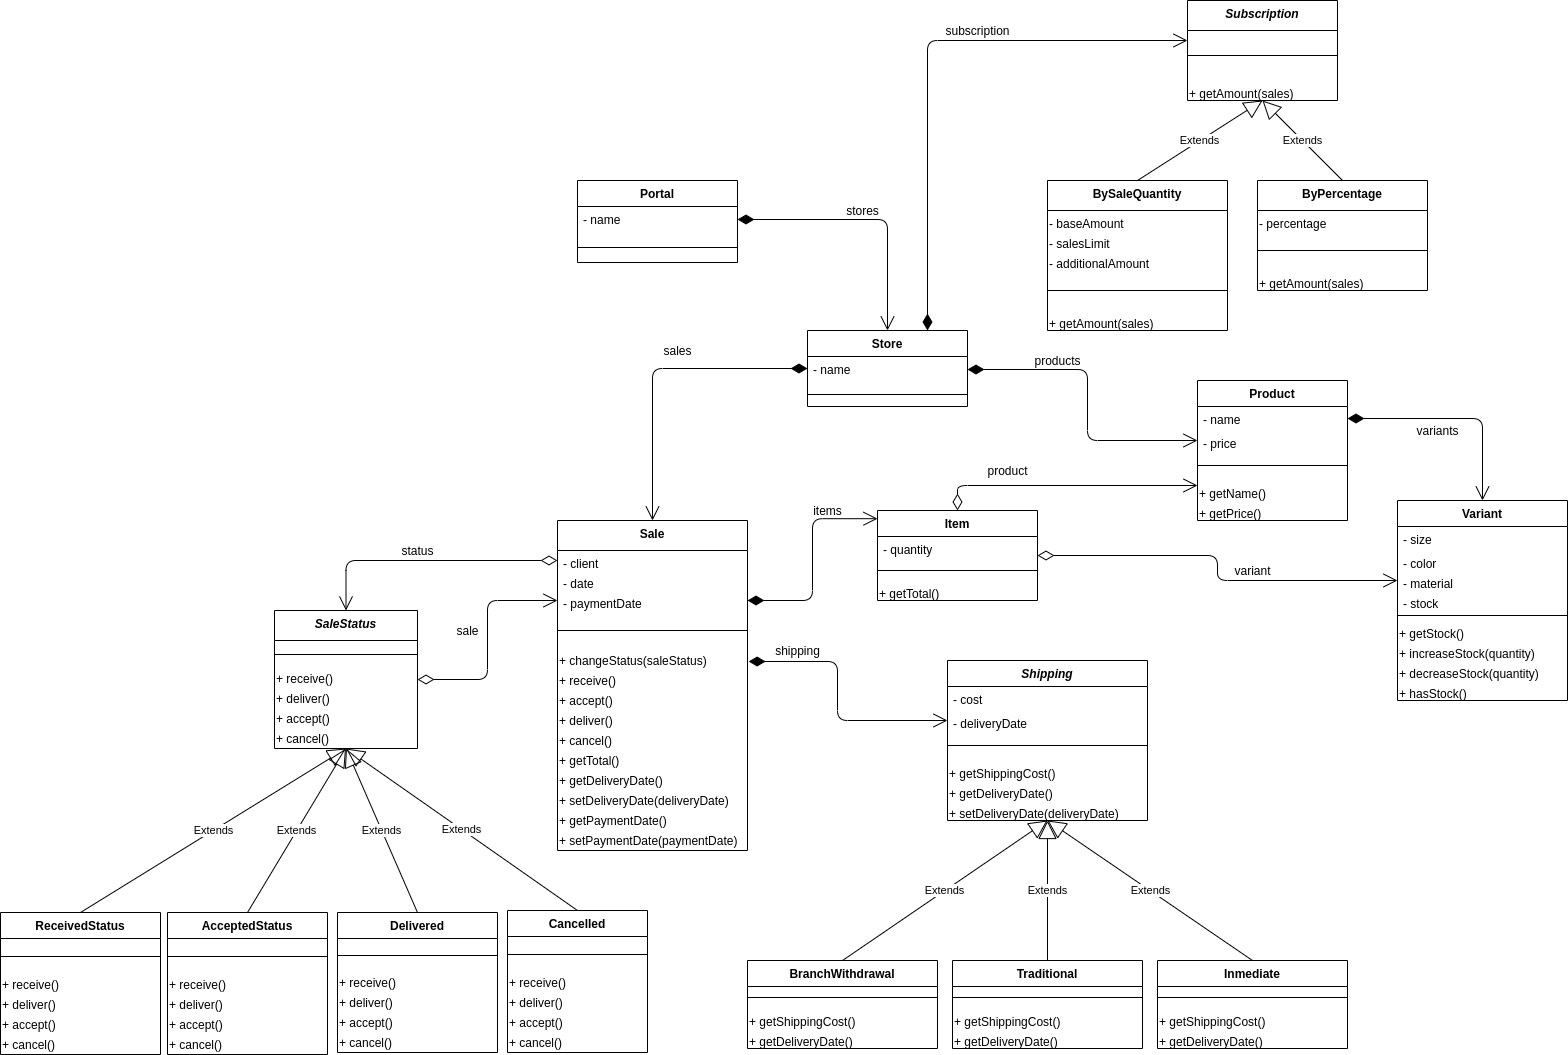
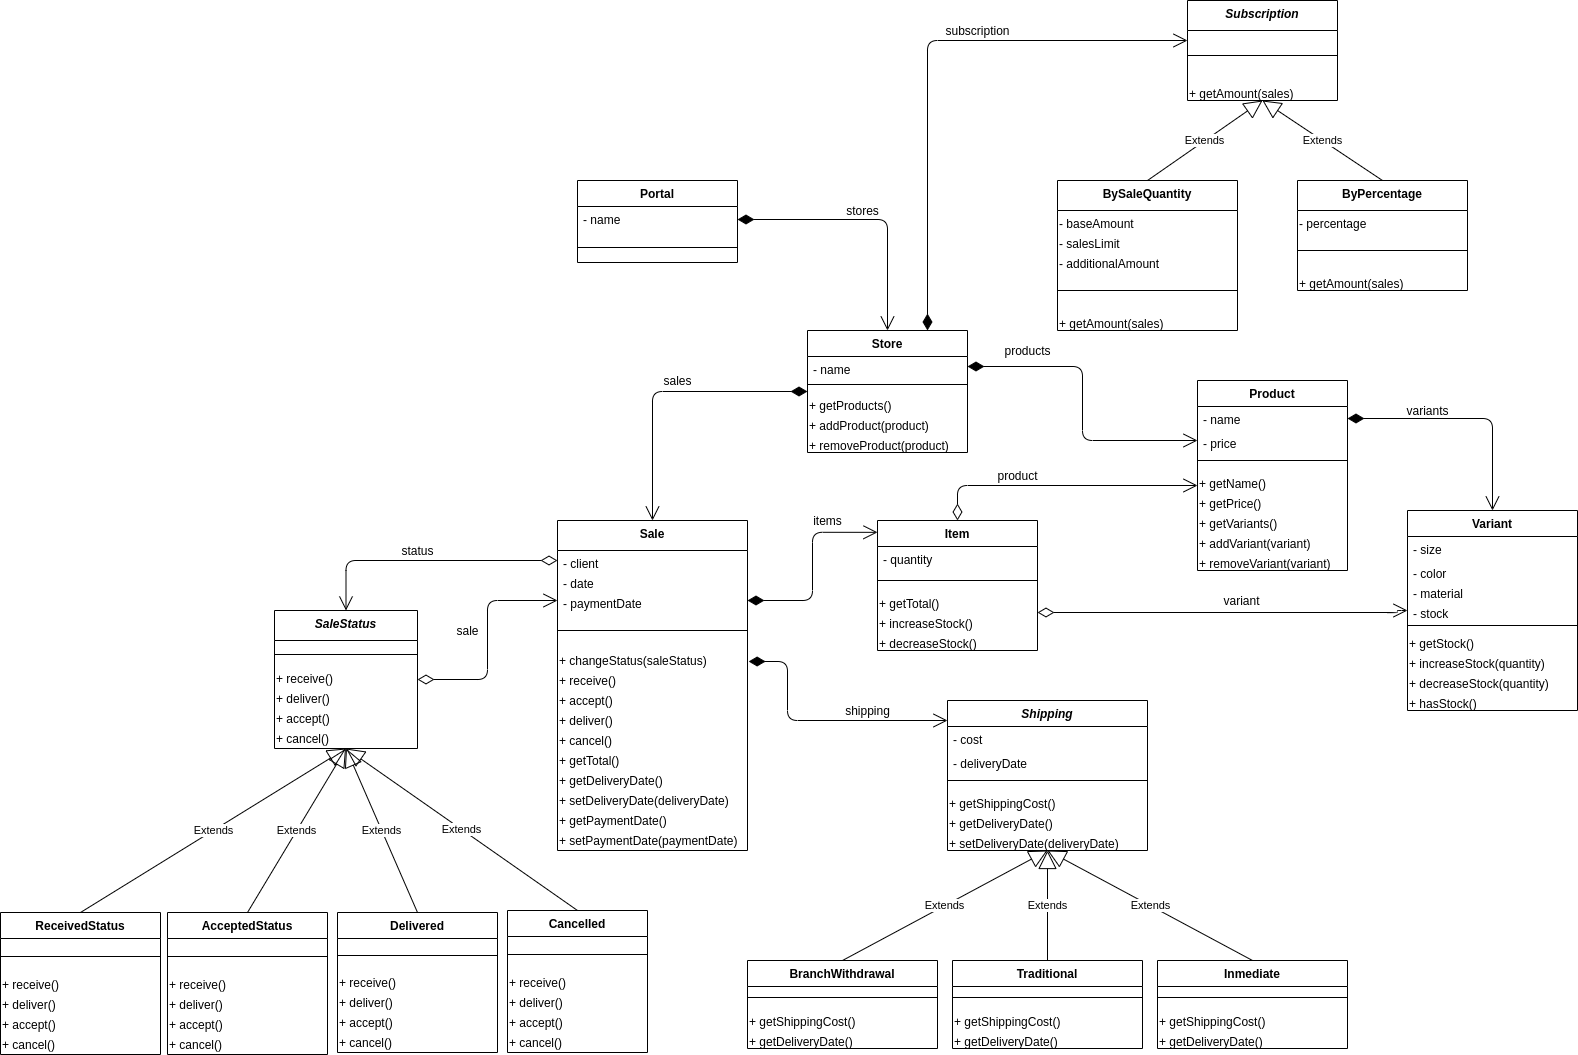
product class created

diff --git a/tests/Product.test.js b/tests/Product.test.js
@@ -1,0 +1,39 @@
+let Product = require("../models/Product");
+let Variant = require("../models/Variant");
+
+jest.mock("../models/Variant");
+
+let campera, camperaDeCueroNegra, camperaDeCueroRoja, camperaDeJeanAzul, emptyProduct;
+
+beforeEach(()=>{
+    camperaDeCueroNegra = new Variant();
+    camperaDeCueroRoja = new Variant();
+    camperaDeJeanAzul = new Variant();
+    campera = new Product("Campera", 10000, [camperaDeCueroNegra, camperaDeCueroRoja]);
+    emptyProduct = new Product();
+})
+
+test("Should return the default values or constructor parameters", () => {
+    expect(campera.getName()).toBe("Campera");
+    expect(campera.getPrice()).toBe(10000);
+    expect(campera.getVariants().length).toBe(2)
+    expect(campera.getVariants()).toEqual([camperaDeCueroNegra, camperaDeCueroRoja])
+    expect(emptyProduct.getVariants().length).toBe(0);
+})
+
+test("Should either add or remove variants", () => {
+    campera.removeVariant(camperaDeCueroNegra)
+    expect(campera.getVariants().length).toBe(1)
+    expect(campera.getVariants()).toEqual([camperaDeCueroRoja])
+    campera.removeVariant(camperaDeCueroRoja)
+    expect(campera.getVariants().length).toBe(0)
+    expect(campera.getVariants()).toEqual([])
+
+    campera.addVariant(camperaDeCueroNegra)
+    expect(campera.getVariants().length).toBe(1)
+    expect(campera.getVariants()).toEqual([camperaDeCueroNegra])
+    campera.addVariant(camperaDeCueroRoja)
+    expect(campera.getVariants().length).toBe(2)
+    expect(campera.getVariants()).toEqual([camperaDeCueroNegra, camperaDeCueroRoja])
+
+})

diff --git a/tests/Variant.test.js b/tests/Variant.test.js
@@ -1,26 +1,31 @@
 let Variant = require("../models/Variant");
 
+
+let variant, emptyVariant;
+
+beforeEach(() => {
+    variant = new Variant("XL", "Rojo", "Cuero", 10);
+    emptyVariant = new Variant();
+})
+
 test("Should return the default values or constructor parameters", () => {
-    let variant = new Variant("XL", "Rojo", "Cuero", 10);
     expect(variant.getSize()).toBe("XL");
     expect(variant.getColor()).toBe("Rojo");
     expect(variant.getMaterial()).toBe("Cuero");
     expect(variant.getStock()).toBe(10);
-    let empty = new Variant();
-    expect(empty.getStock()).toBe(0);
+    expect(emptyVariant.getStock()).toBe(0);
 })
 
 test("Should either increase or decrease stock", () => {
-    variant = new Variant("XL", "Rojo", "Cuero");
-    expect(variant.hasStock()).toBe(false);
+    expect(variant.hasStock()).toBe(true);
     variant.increaseStock(2);
-    expect(variant.getStock()).toBe(2);
+    expect(variant.getStock()).toBe(12);
     expect(variant.hasStock()).toBe(true);
     variant.decreaseStock(1);
-    expect(variant.getStock()).toBe(1);
+    expect(variant.getStock()).toBe(11);
     expect(variant.hasStock()).toBe(true);
-    expect( () => { variant.decreaseStock(6) } ).toThrow("Cannot decrease stock");
-    variant.decreaseStock(1);
+    expect( () => { variant.decreaseStock(12) } ).toThrow("Cannot decrease stock");
+    variant.decreaseStock(11);
     expect(variant.getStock()).toBe(0);
     expect(variant.hasStock()).toBe(false);
 })

diff --git a/models/Product.js b/models/Product.js
@@ -1,0 +1,24 @@
+class Product{
+    constructor(name, price, variants=[]){
+        this.name = name;
+        this.price = price;
+        this.variants = variants;
+    }
+    getName(){
+        return this.name;
+    }
+    getPrice(){
+        return this.price;
+    }
+    getVariants(){
+        return this.variants;
+    }
+    addVariant(variant){
+        this.variants.push(variant)
+    }
+    removeVariant(variant){
+        this.variants = this.variants.filter(currentVariant => currentVariant != variant)
+    }
+}
+
+module.exports = Product;
